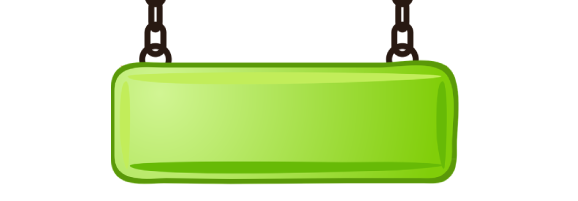
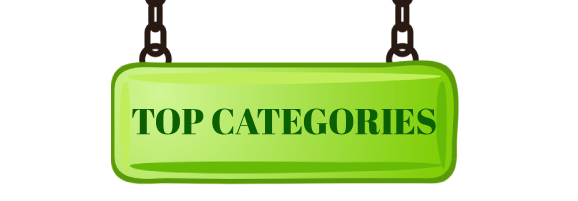
added new top of not registered and registered pages

Changed region(s): [[0.218, 0.5373, 0.7785, 0.6866]]

diff --git a/src/main/resources/templates/ScreenUserR.html b/src/main/resources/templates/ScreenUserR.html
@@ -14,10 +14,10 @@
 <body class="container-fluid">
 	<div class="row">
 		<!--  -->
-	    <div class="col-sm-9 text-center">
+	    <div class="col-sm-12 col-md-9 text-center">
 	    	<!-- Time left to gift day -->
 	    	<figure>
-	          <img src="../images/nrUserPage/topOfNRUserPage.png" class="img-fluid animateTopSideImg"  alt="top desk">
+	          <img src="../images/rUserPage/topWelcome.png" class="img-fluid animateTopSideImg"  alt="top desk">
 	        </figure>
 	        <!-- GO TO GIFTIE -->
 	        <figure>
@@ -28,12 +28,25 @@
 	        	</a>
 	        </figure>
 	    </div>
+
 	    <!-- Long list with categories -->
-	    <div class="col-sm-3">
+	    <div class="col-sm-12 col-md-3">
 			<figure>
-	          <img id="back" src="../images/nrUserPage/scrollLong.png" class="img-fluid animateTopSideImg"  alt="top desk">
-	          <img id="front" src="../images/nrUserPage/registeredBtn.png" class="img-fluid animateTopSideImg"  alt="top desk">
+	          <img id="back" src="../images/rUserPage/scrollLong.png" class="img-fluid animateTopSideImg"  alt="top desk">
+	          <img id="front" src="../images/rUserPage/topCategories.png" class="img-fluid animateTopSideImg"  alt="top desk">
 	        </figure>
+			<ul id="list">
+				<li>Pesho</li>
+				<li>Gosho</li>
+				<li>Ivan</li>
+				<li>Stamat</li>
+				<li>1</li>
+				<li>1</li>
+				<li>1</li>
+				<li>1</li>
+				<li>1</li>
+				<li>1</li>
+			</ul>
 	    </div>
 	</div>
 	<!-- BACK button -->

diff --git a/src/main/resources/static/css/RUser.css b/src/main/resources/static/css/RUser.css
@@ -1,5 +1,5 @@
 body {
-     background: url("../images/nrUserPage/background.jpg") no-repeat center center fixed;
+     background: url("../images/rUserPage/background.jpg") no-repeat center center fixed;
   	-webkit-background-size: cover;
   	-moz-background-size: cover;
   	-o-background-size: cover;
@@ -32,4 +32,12 @@ body {
 #giftieButton {
   max-height: 400px;
   max-width: 400px;
+}
+
+#list {
+    top: 10%;
+    position:absolute;
+    z-index: 1;
+    margin-top: 80px;
+    margin-left: 0px;
 }
